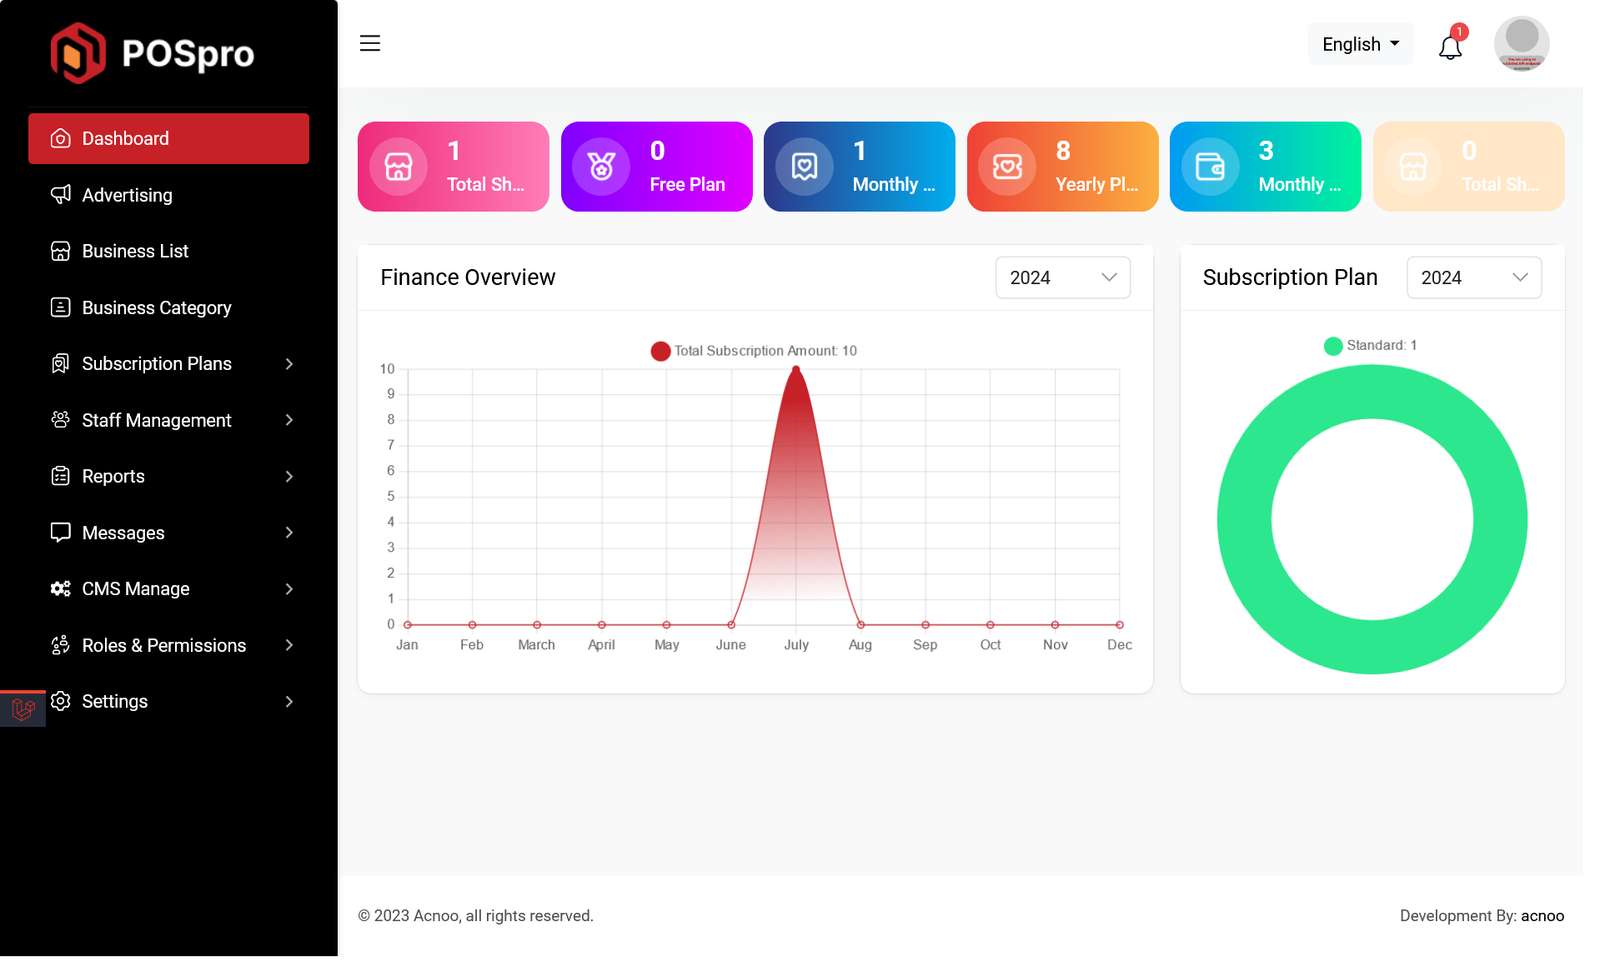
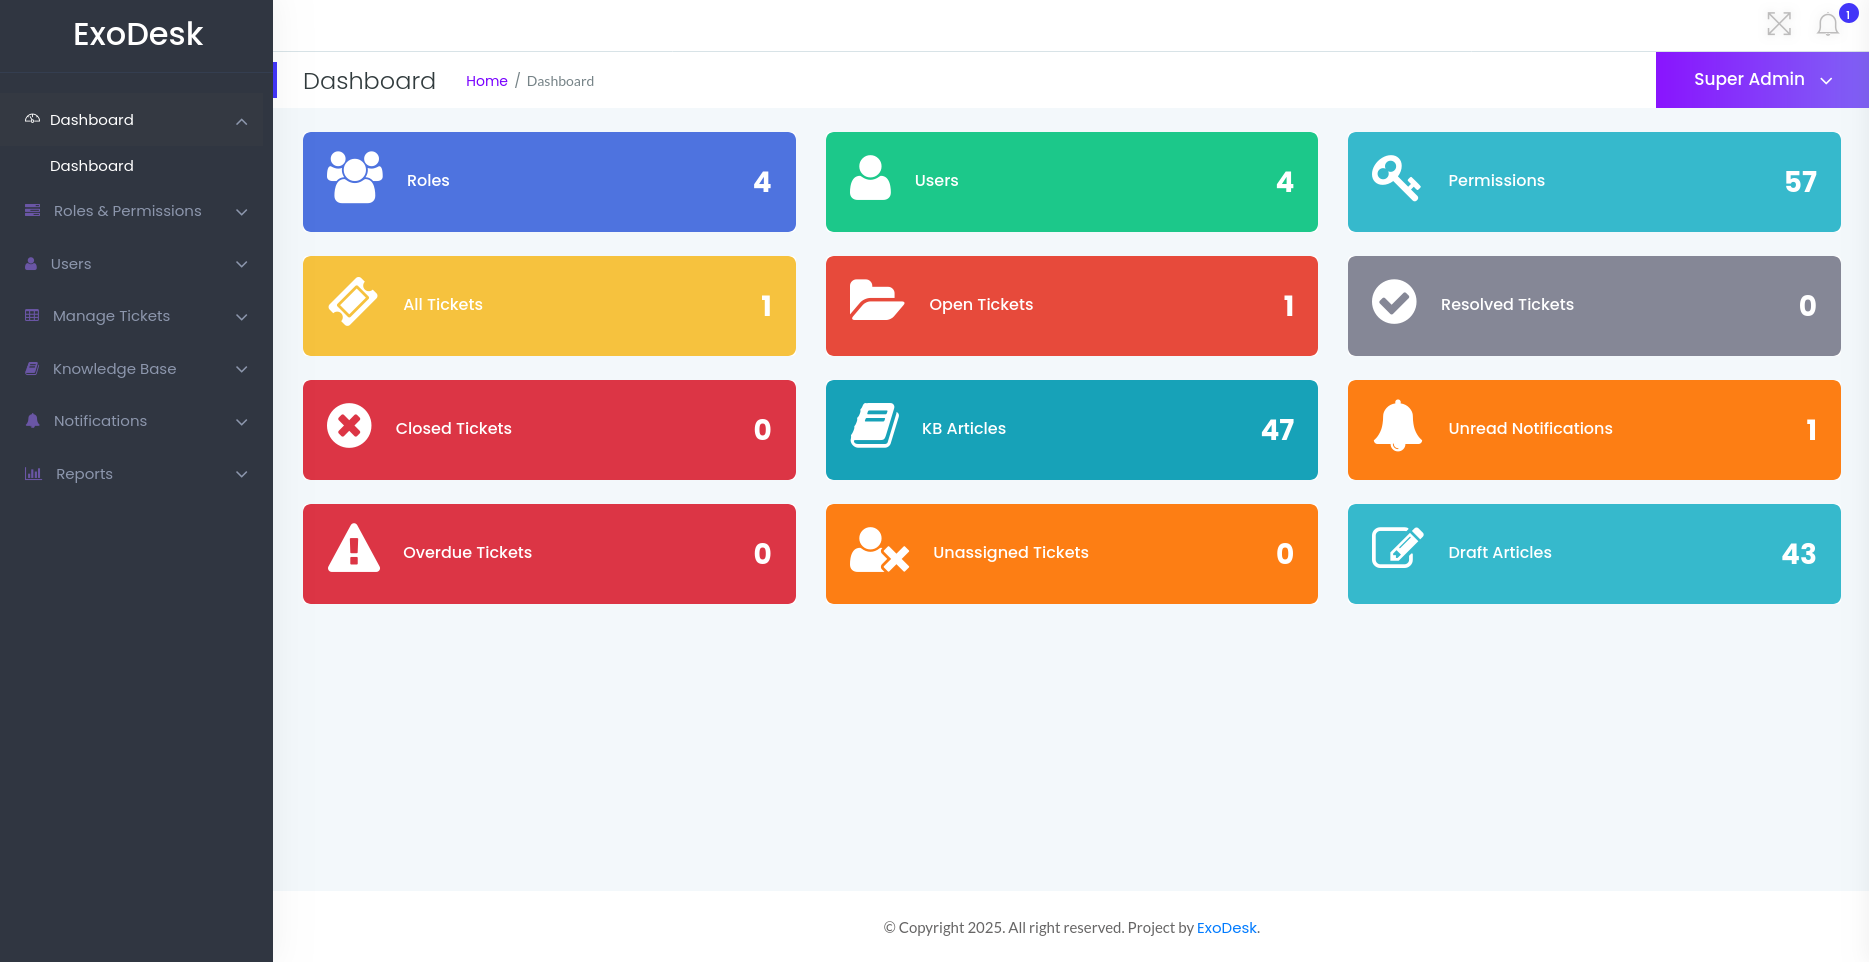
dashboard

diff --git a/index.html b/index.html
@@ -263,6 +263,14 @@
                             <img src="assets/img/upload4.png" alt="" class="border">
                         </a>
 
+                        <a href="assets/img/upload5.png" target="_blank">
+                            <img src="assets/img/upload5.png" alt="" class="border">
+                        </a>
+
+                        <a href="assets/img/upload6.png" target="_blank">
+                            <img src="assets/img/upload6.png" alt="" class="border">
+                        </a>
+
                         <p class="important"><b>Note: </b> Important Make sure that you have .env file in your folder.
                         </p>
 
@@ -455,11 +463,6 @@ MIX_PUSHER_APP_CLUSTER="${PUSHER_APP_CLUSTER}"
                         <a href="assets/img/permissions2.png" target="_blank">
                             <img src="assets/img/permissions2.png" alt="" class="border">
                         </a>
-                        <span>Change permissions for specific directory</span>
-                        <a href="assets/img/permissions3.png" target="_blank">
-                            <img src="assets/img/permissions3.png" alt="" class="border">
-                        </a>
-
                         <p class="important">
                             Note: You have to change the directory permissions for the <code>storage/logs</code> and <code>bootstrap/cache</code> folders as shown in the image. If these folders do not have the correct permissions, please adjust them accordingly.
                         </p>
@@ -471,30 +474,58 @@ MIX_PUSHER_APP_CLUSTER="${PUSHER_APP_CLUSTER}"
                     </section>
 
                     <section id="password">
-                        <div class="page-header">
+                          <div class="page-header">
                             <h3>Default Password</h3>
-                        </div>
-                        <p>You can login using several methods depending on your role.</p>
+                          </div>
 
-                        <h3>Super Admin</h3>
-                        <p class="mb-0">superadmin@superadmin.com</p>
-                        <p class="mb-0">superadmin</p>
+                          <p>You can login using several methods depending on your role.</p>
 
-                        <h3 class="mt-3">Admin</h3>
-                        <p class="mb-0">admin@admin.com</p>
-                        <p class="mb-0">admin</p>
+                          <ul>
+                            <li>
+                              <h4>Super Admin</h4>
+                              <ul>
+                                <li>Username: <code>superadmin</code></li>
+                                <li>Password: <code>12345678</code></li>
+                              </ul>
+                            </li>
 
-                        <h3 class="mt-3">Manager</h3>
-                        <p class="mb-0">manager@manager.com</p>
-                        <p class="mb-0">manager</p>
+                            <li>
+                              <h4>Admin</h4>
+                              <ul>
+                                <li>Username: <code>admin</code></li>
+                                <li>Password: <code>12345678</code></li>
+                              </ul>
+                            </li>
 
-                        <!--Should be changed-->
-                        <a href="assets/img/login.png" target="_blank">
-                            <img src="assets/img/login.png" class="border">
-                        </a>
-                        <p class="mt-2">In this project, different modules are assigned based on user roles: Super Admin, Admin, Manager. Each role has distinct responsibilities tailored to their specific tasks and
-                            permissions. Below, we will discuss how each user role operates within the system.</p>
-                    </section>
+                            <li>
+                              <h4>Agent</h4>
+                              <ul>
+                                <li>Username: <code>agent</code></li>
+                                <li>Password: <code>12345678</code></li>
+                              </ul>
+                            </li>
+
+                            <li>
+                              <h4>Customer</h4>
+                              <ul>
+                                <li>Username: <code>customer</code></li>
+                                <li>Password: <code>12345678</code></li>
+                              </ul>
+                            </li>
+                          </ul>
+
+                          <!-- Login image -->
+                          <a href="assets/img/login.png" target="_blank">
+                            <img src="assets/img/login.png" class="border" alt="Login Page Screenshot">
+                          </a>
+
+                          <p class="mt-2">
+                            In this project, different modules are assigned based on user roles: Super Admin, Admin, Manager. 
+                            Each role has distinct responsibilities tailored to their specific tasks and permissions. 
+                            Below, we will discuss how each user role operates within the system.
+                          </p>
+                        </section>
+
                 </div>
 
                 <section id="super-dashboard">
